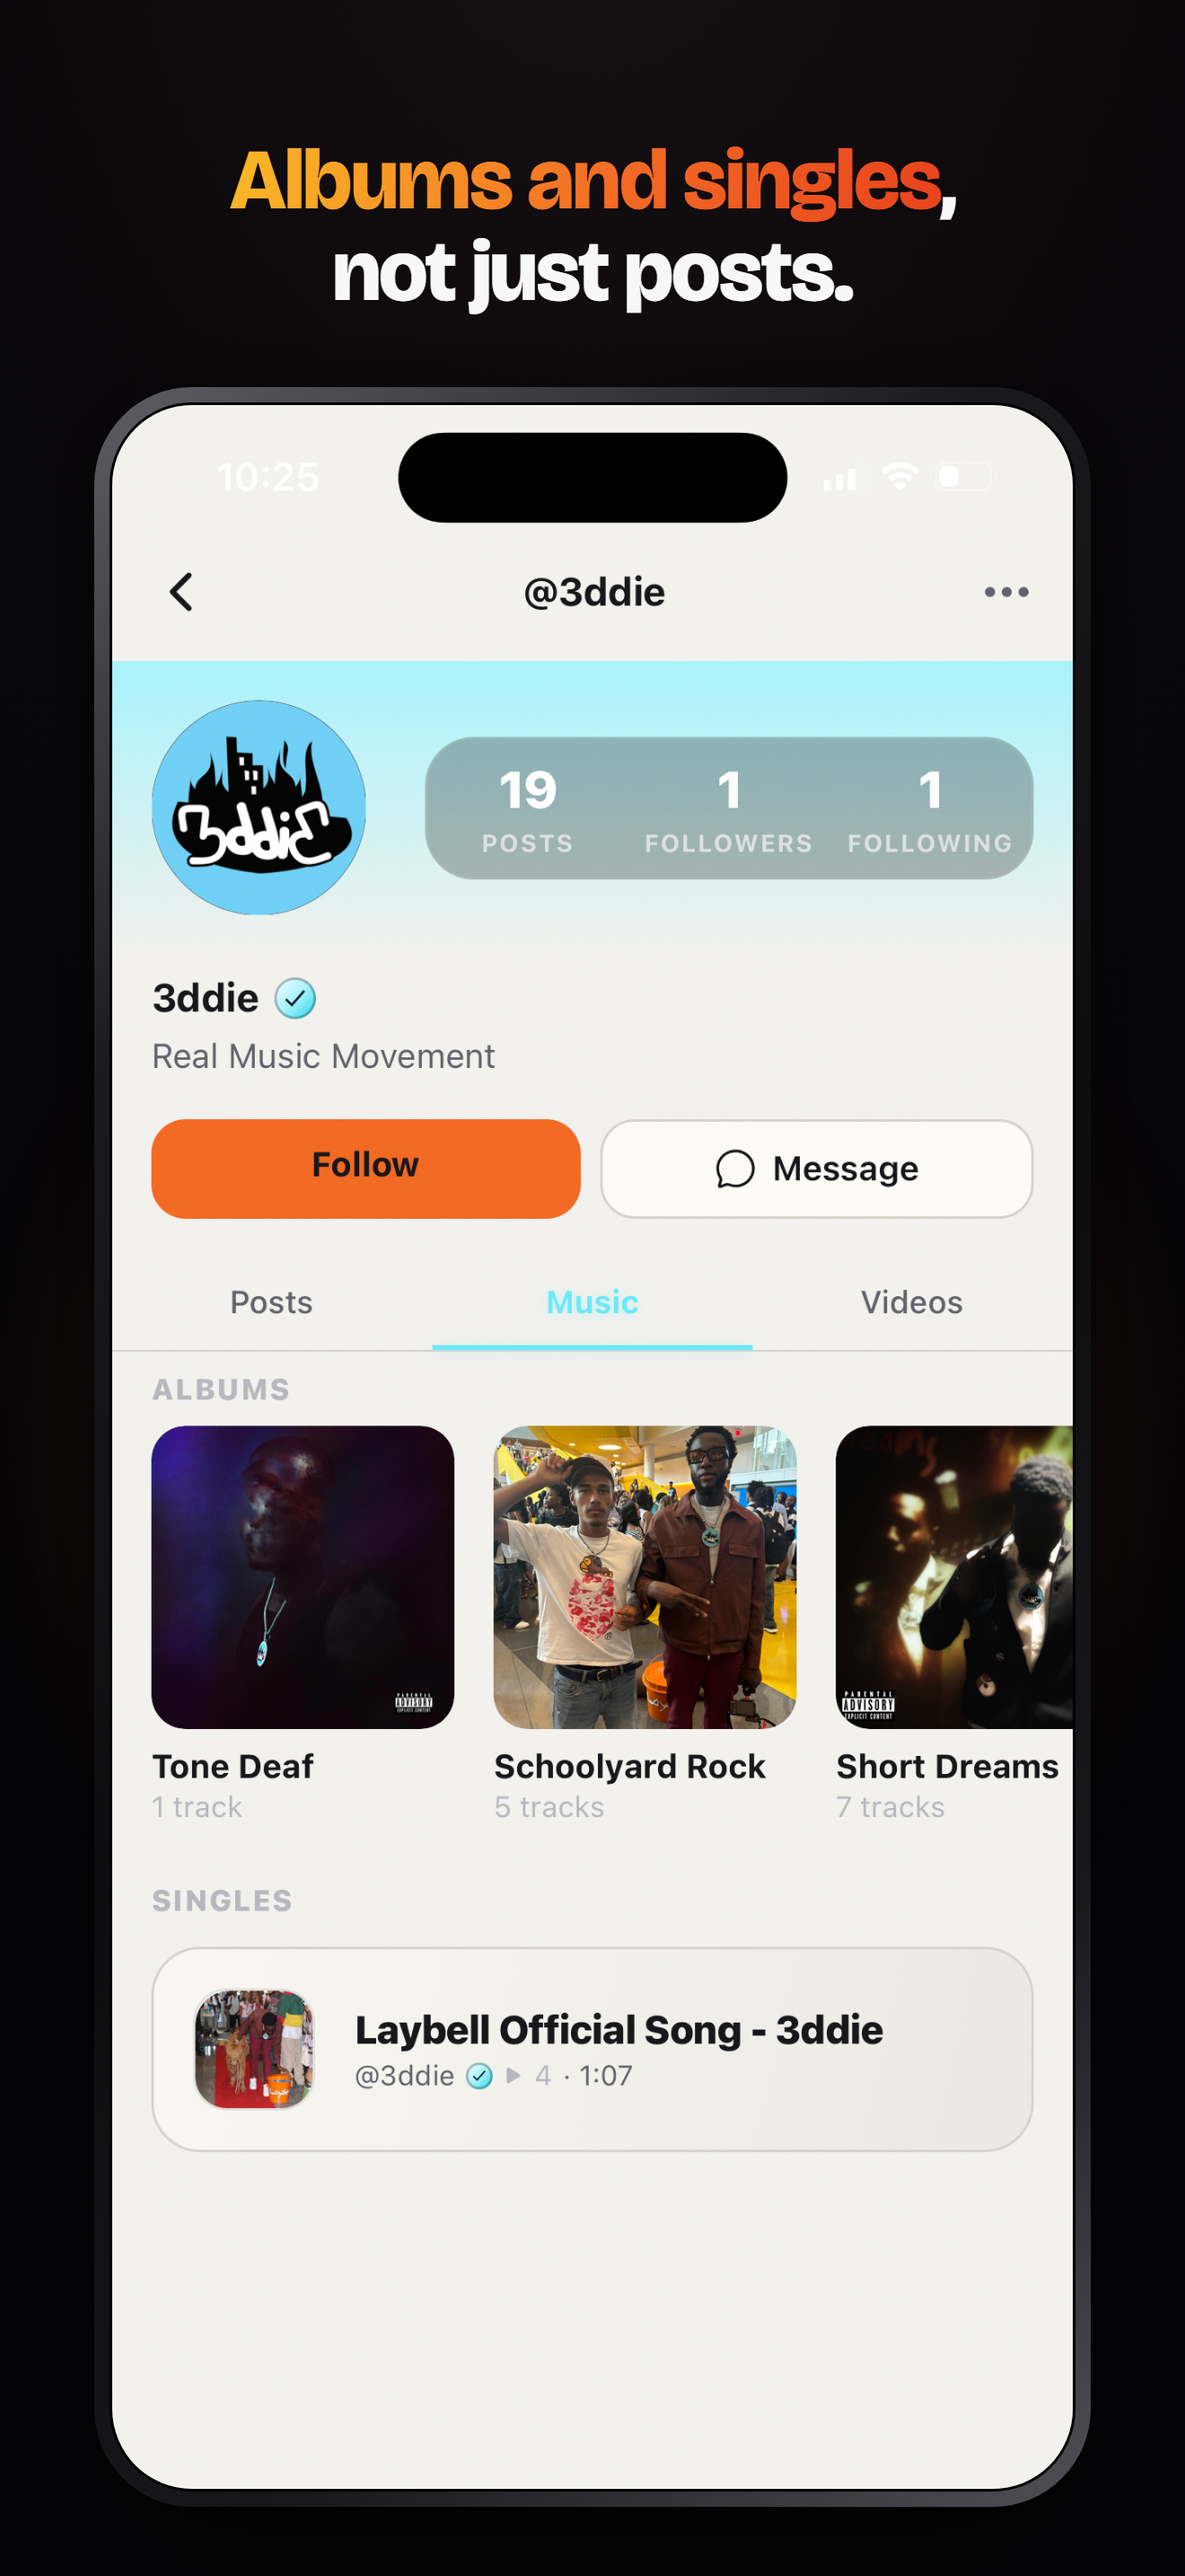
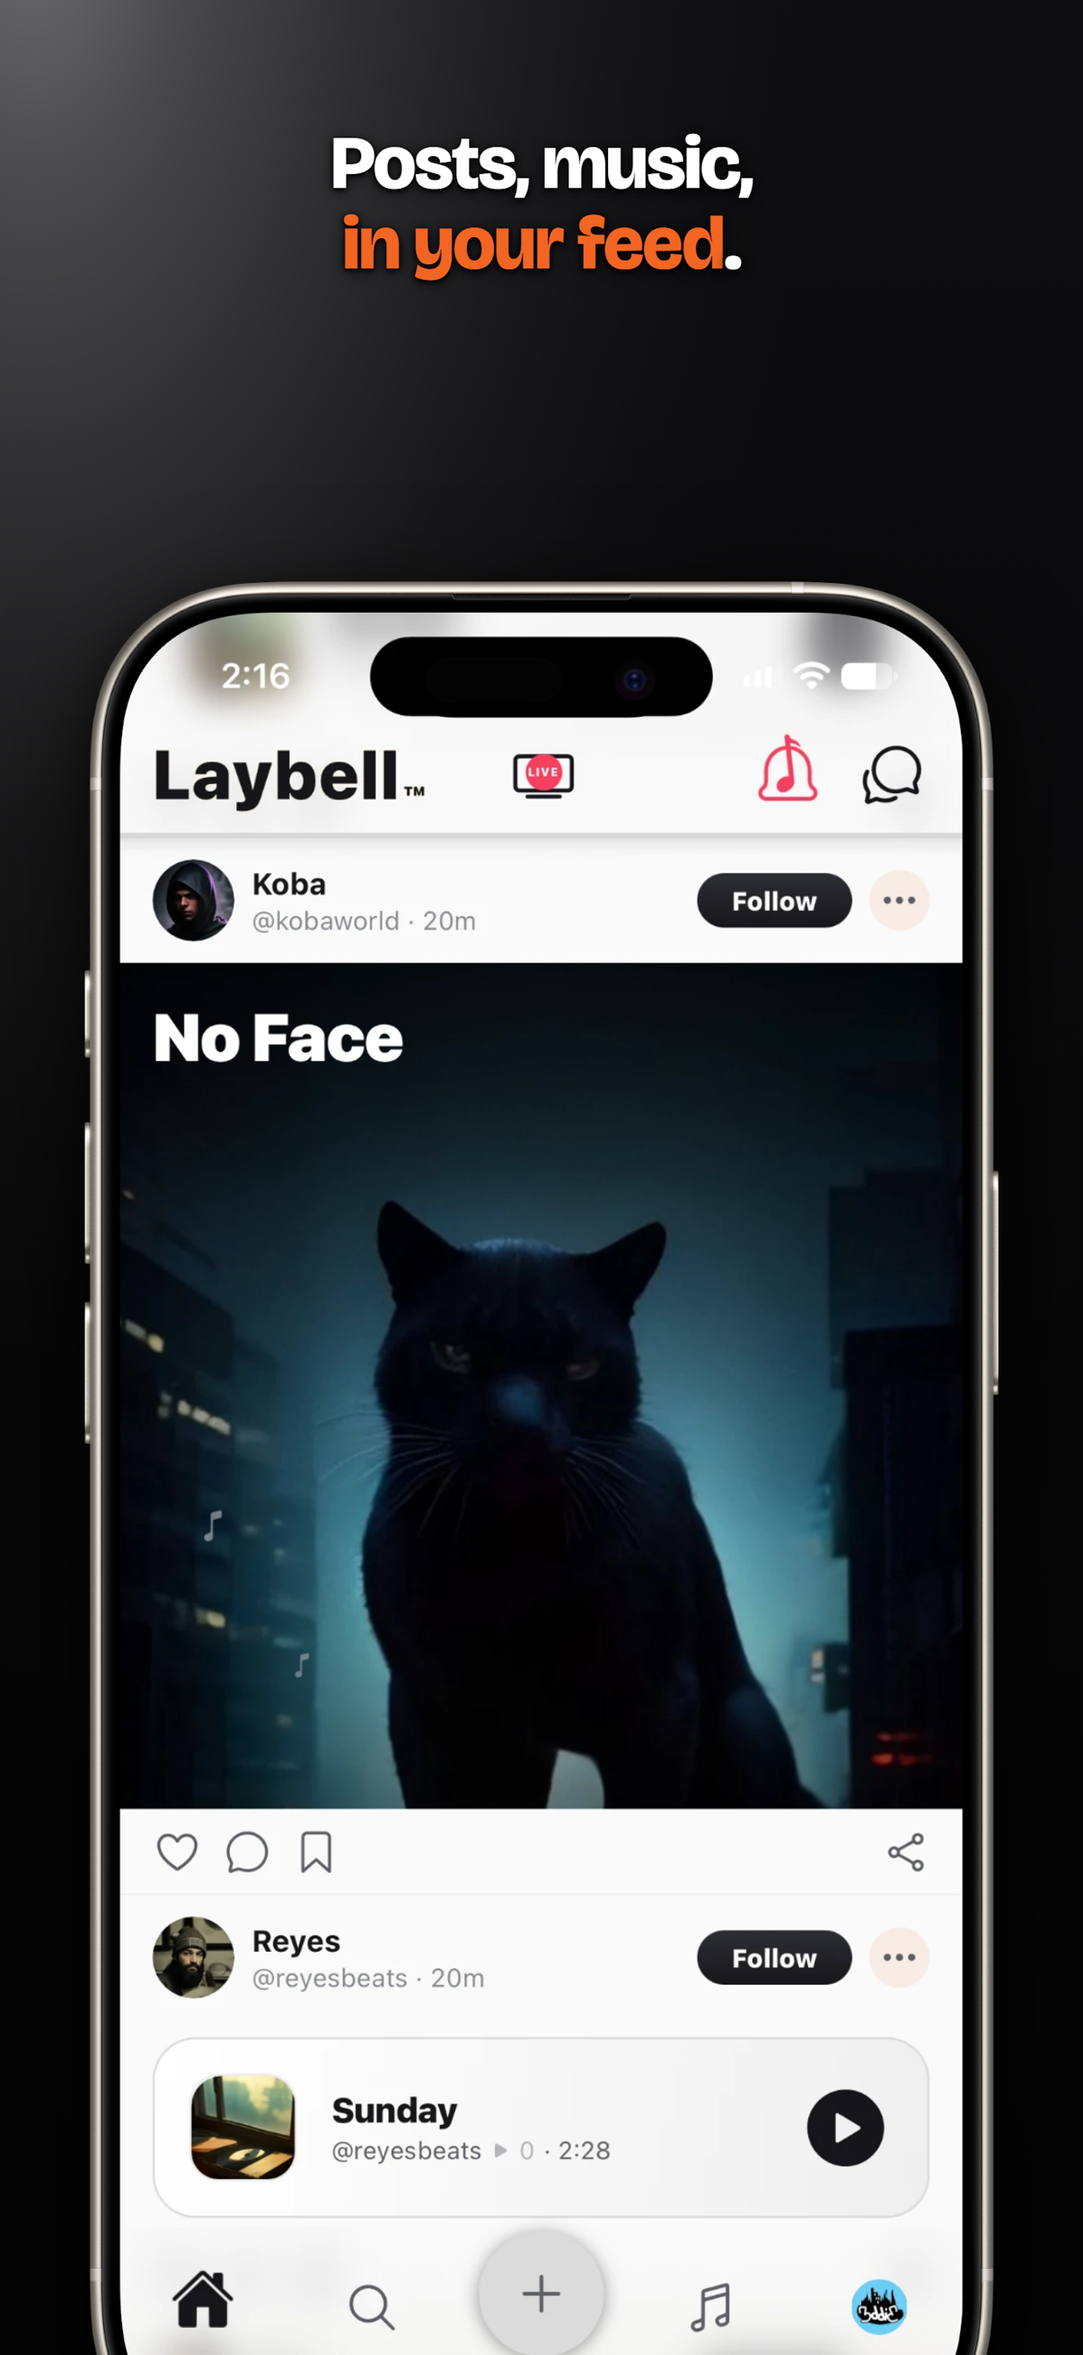
chore(store): sync iOS App Store screenshots to the live-staged set
Replace the repo's stale 7-frame iOS screenshot set with the 5-frame set
currently staged in App Store Connect on 1.1.5 (the redesigned, video-led
set: Posts / Short videos / A player built / Full albums / Films), pulled
from ASC at Apple's native 1206x2622. Removes the two now-unused frames
(06/07) and adds a README documenting the set, that the app-preview video
is a separate asset, and that make-screenshots.mjs still emits the OLD copy
(so a regenerate must not clobber these).

The staged set is not yet public (iOS version-locks screenshots); it rides
the next version (1.1.6) through review. The live listing still shows the
old 8-frame set with the cat frame until then.

diff --git a/store/screenshots/appstore/README.md b/store/screenshots/appstore/README.md
@@ -1,0 +1,36 @@
+# iOS App Store screenshots — LIVE-BOUND set ("set B")
+
+**These 5 PNGs are the real set currently staged on the iOS App Store listing**
+(App Store Connect → Laybell 1.1.5 → App Previews and Screenshots). They were pulled
+straight from App Store Connect on **2026-11-23** and committed here so the repo matches
+what Apple holds — **do not let a screenshot regenerate/re-upload clobber them.**
+
+| File | Caption | Screen |
+|------|---------|--------|
+| `01.png` | Posts, music, in your feed. | Feed ("No Face") |
+| `02.png` | Short videos, full screen. | Reels |
+| `03.png` | A player built for listening. | Now Playing ("body") |
+| `04.png` | Full albums. Real tracklists. | Album ("Afterlife") |
+| `05.png` | Films, videos, live TV. | Laybell TV |
+
+Plus a **6th asset on the listing: an app-preview VIDEO** (first slot). It is **not**
+stored in this folder — it's an `.mov`/`.mp4` app preview, not a screenshot.
+
+## Important facts
+
+- **Resolution: 1206×2622** — this is the native resolution Apple stores/serves for this
+  set (requesting any larger size from mzstatic returns the same file), and Apple has
+  already accepted it, so these files are re-upload-safe as-is.
+- **Provenance: pulled from ASC, NOT generated by `scripts/make-screenshots.mjs`.** The
+  generator in this repo still produces the OLDER copy (the "Albums and singles… / A whole
+  shelf of films… / Sell beats…" set). **Running the generator will NOT recreate this set**
+  and will overwrite these files with the old design. If you need to re-render set B,
+  update the generator's copy/content to match these captions first, or just re-upload
+  these PNGs.
+- **Publish status (2026-11-23):** set B is staged in ASC but **not public**. iOS locks
+  screenshots to a version, so the live listing still shows the OLD 8-frame set (white
+  captions, incl. the "Begging cat type beat" frame). **Set B rides the next version
+  (1.1.6)** through App Review. Before submitting 1.1.6, confirm ASC still shows this
+  video + 5-frame set.
+- The previous repo set (7 frames: the old design minus the cat, orange captions) is in
+  git history prior to this commit if ever needed.
